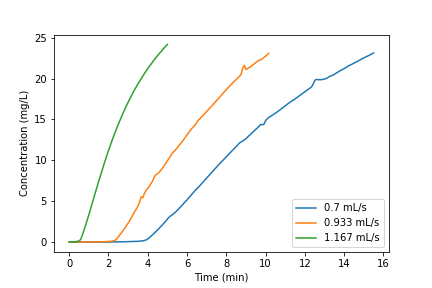
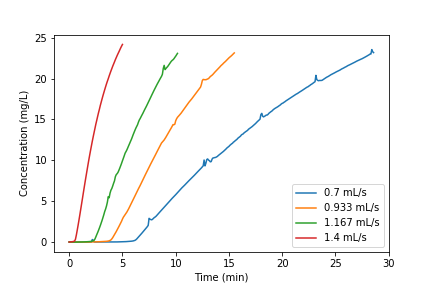
graphs

diff --git a/Project/team10_final_report.md b/Project/team10_final_report.md
@@ -176,6 +176,7 @@ plt.savefig("Project/Layers.png")
 plt.show()
 
 # Plot concentration against time for different flow rates
+plt.plot(time_data[6].to(u.min), C_data[6])
 plt.plot(time_data[7].to(u.min), C_data[7])
 plt.plot(time_data[8].to(u.min), C_data[8])
 plt.plot(time_data[9].to(u.min), C_data[9])
@@ -202,12 +203,13 @@ plt.savefig("Project/Flows_2.png")
 plt.show()
 
 # Plot concentration against time for lower flow rates
+plt.plot(time_data[6].to(u.min), C_data[6])
 plt.plot(time_data[7].to(u.min), C_data[7])
 plt.plot(time_data[8].to(u.min), C_data[8])
 plt.plot(time_data[9].to(u.min), C_data[9])
 plt.xlabel("Time (min)")
 plt.ylabel("Concentration (mg/L)")
-leg = plt.legend(('0.7 mL/s','0.933 mL/s','1.167 mL/s'), loc='best')
+leg = plt.legend(('0.7 mL/s','0.933 mL/s','1.167 mL/s', '1.4 mL/s'), loc='best')
 plt.savefig("Project/Flows_3.png")
 plt.show()
 
@@ -218,8 +220,9 @@ for i in range(len(filenames)):
     if (C_data[i][j-1] < C_45) and (C_data[i][j] > C_45):
       t_array[i] = (time_data[i][j].magnitude)
 
-plt.plot(Flow_rate[7:13], t_array[7:13], 'o')
+plt.plot(Flow_rate[6:14], t_array[6:14], 'o')
 plt.xlabel('Flow rate (mL/s)')
 plt.ylabel('Time to C/Co = 0.5 (s)')
 plt.show()
+Flow_rate
 ```
